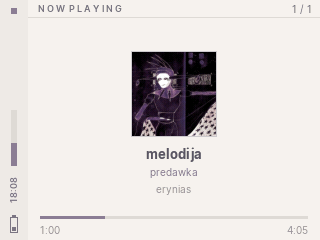
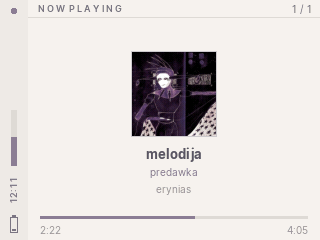
Update screenshots for the playback dot

diff --git a/README.md b/README.md
@@ -16,6 +16,12 @@ Comes in four variants. Two in Rose Pine's own palette, and two neutral counterp
 | Now playing | ![](screenshots/iris-night-wps.png) | ![](screenshots/iris-morning-wps.png) |
 | Lock screen | ![](screenshots/iris-night-lock.png) | ![](screenshots/iris-morning-lock.png) |
 
+The accent dot at the top of the sidebar doubles as a playback indicator, so play state is visible on every screen:
+
+| Playing | Paused | Stopped |
+|---|---|---|
+| ![](screenshots/iris-dot-playing.png) | ![](screenshots/iris-dot-paused.png) | ![](screenshots/iris-dot-stopped.png) |
+
 ## Features
 
 - Lock screen with a big clock and track info
